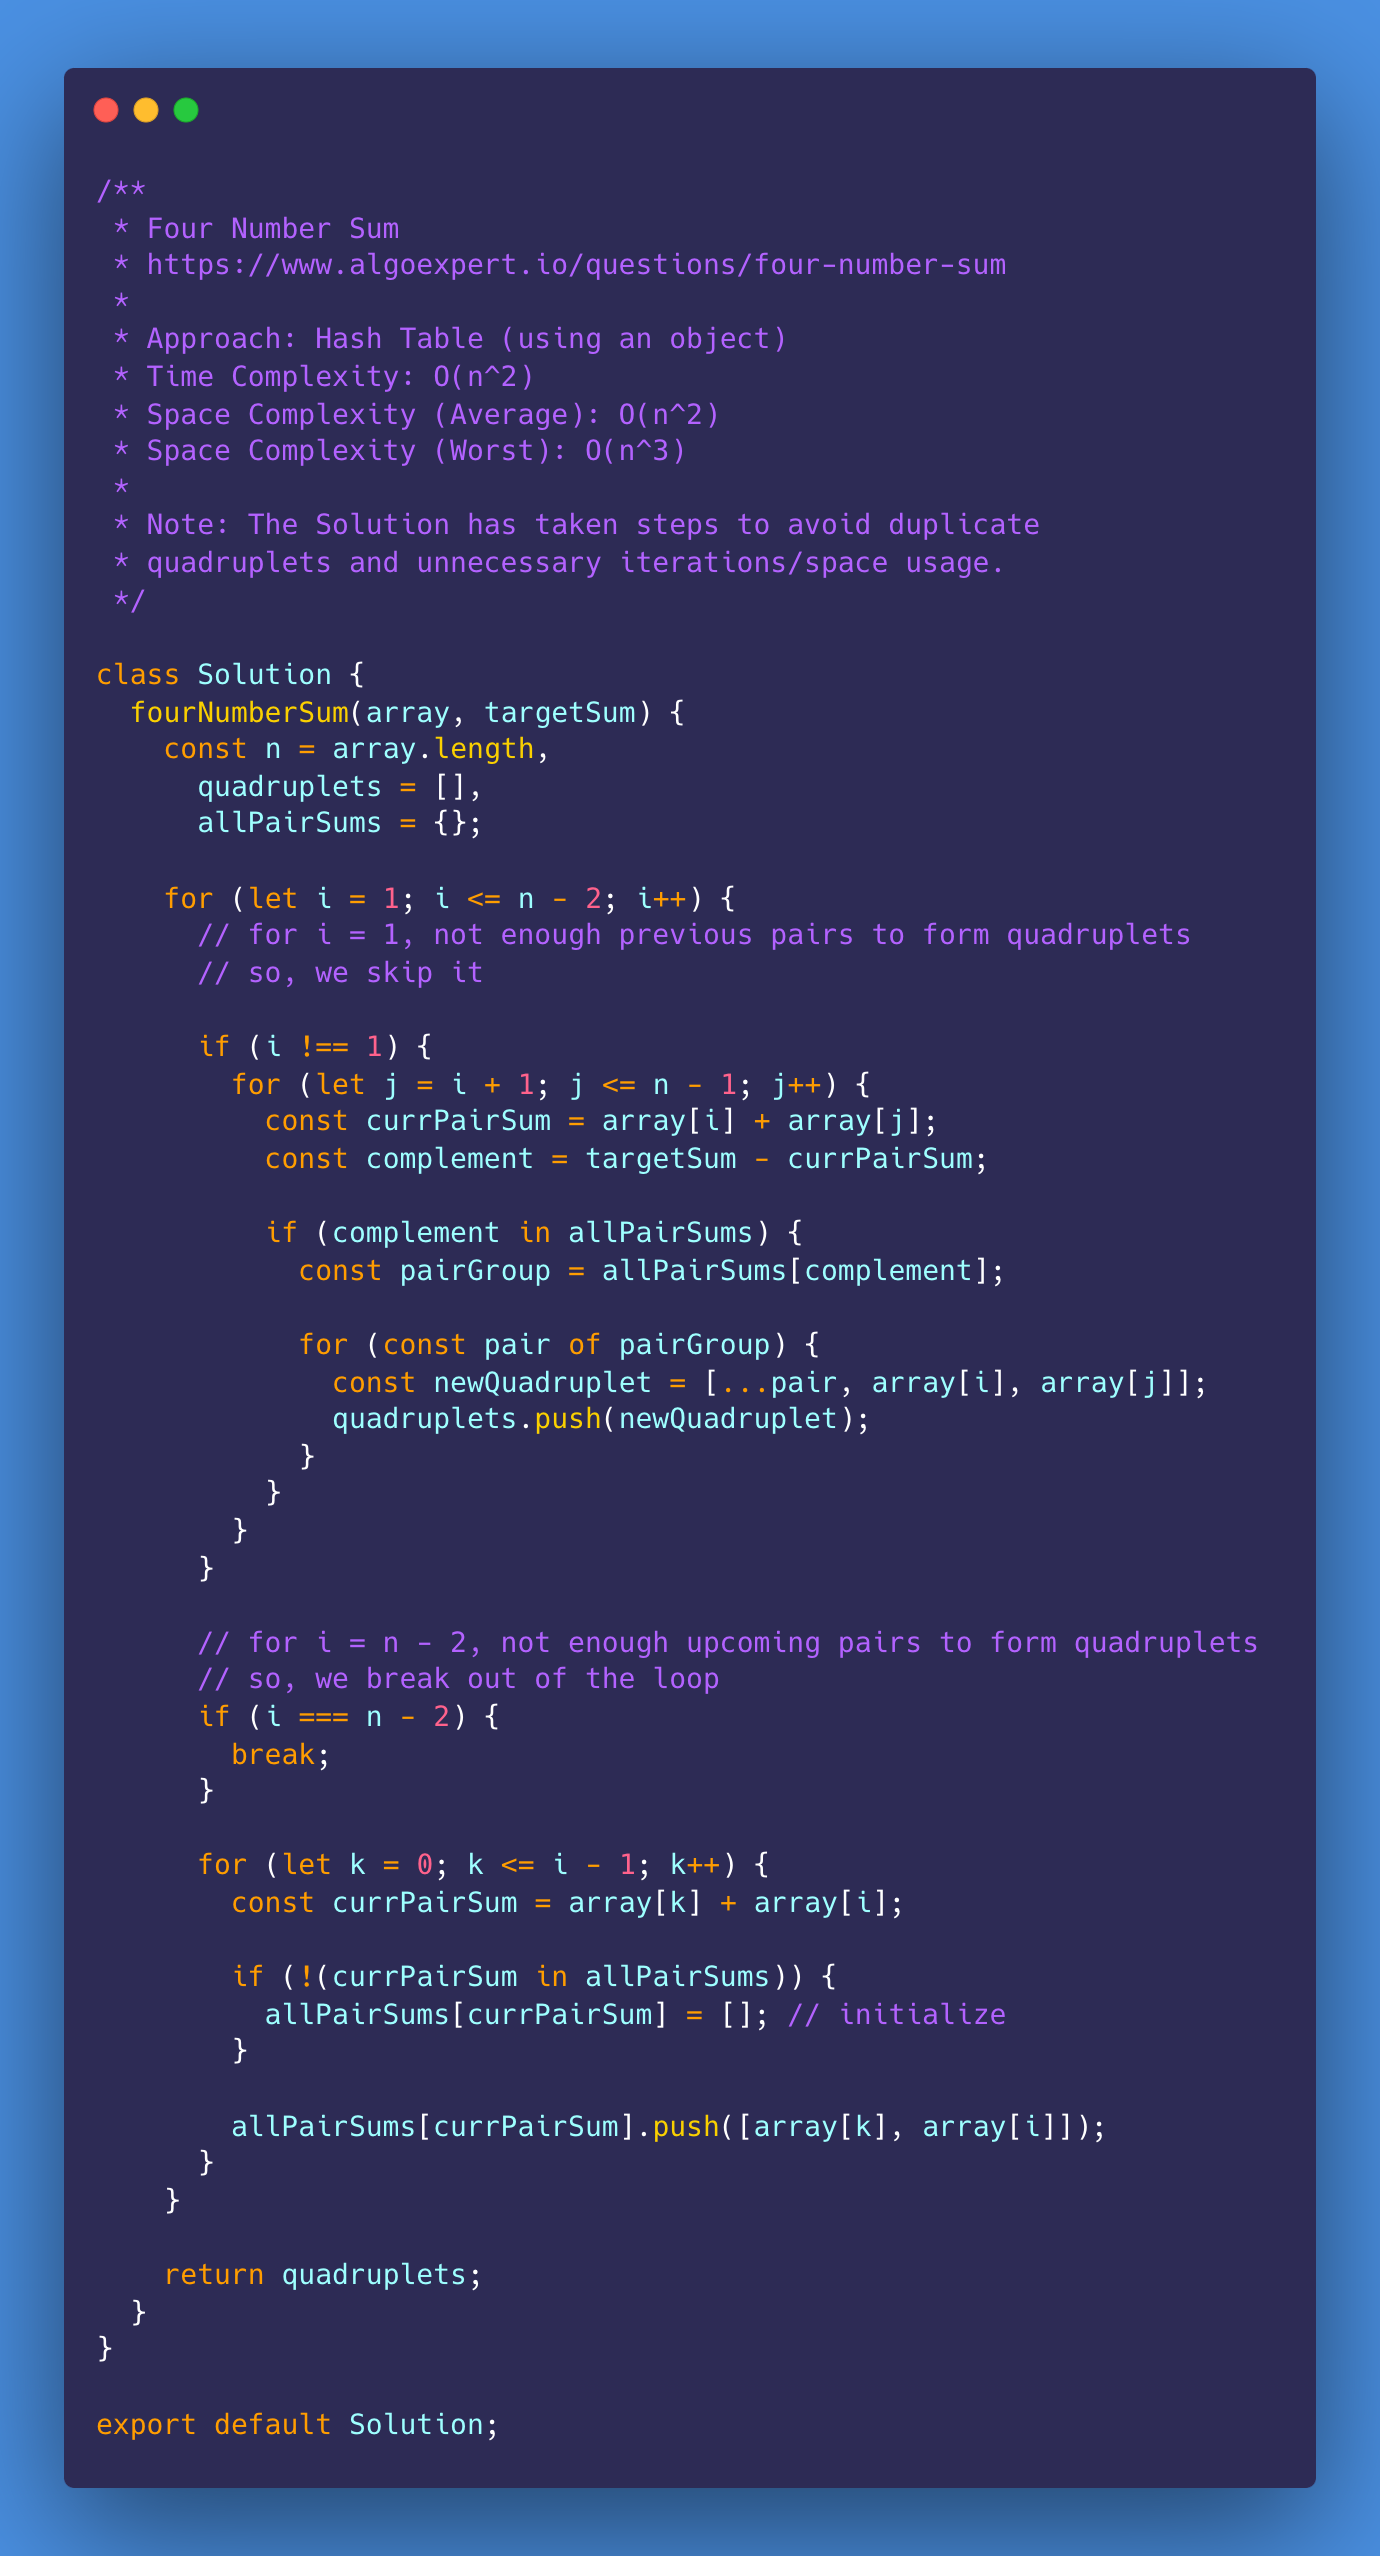
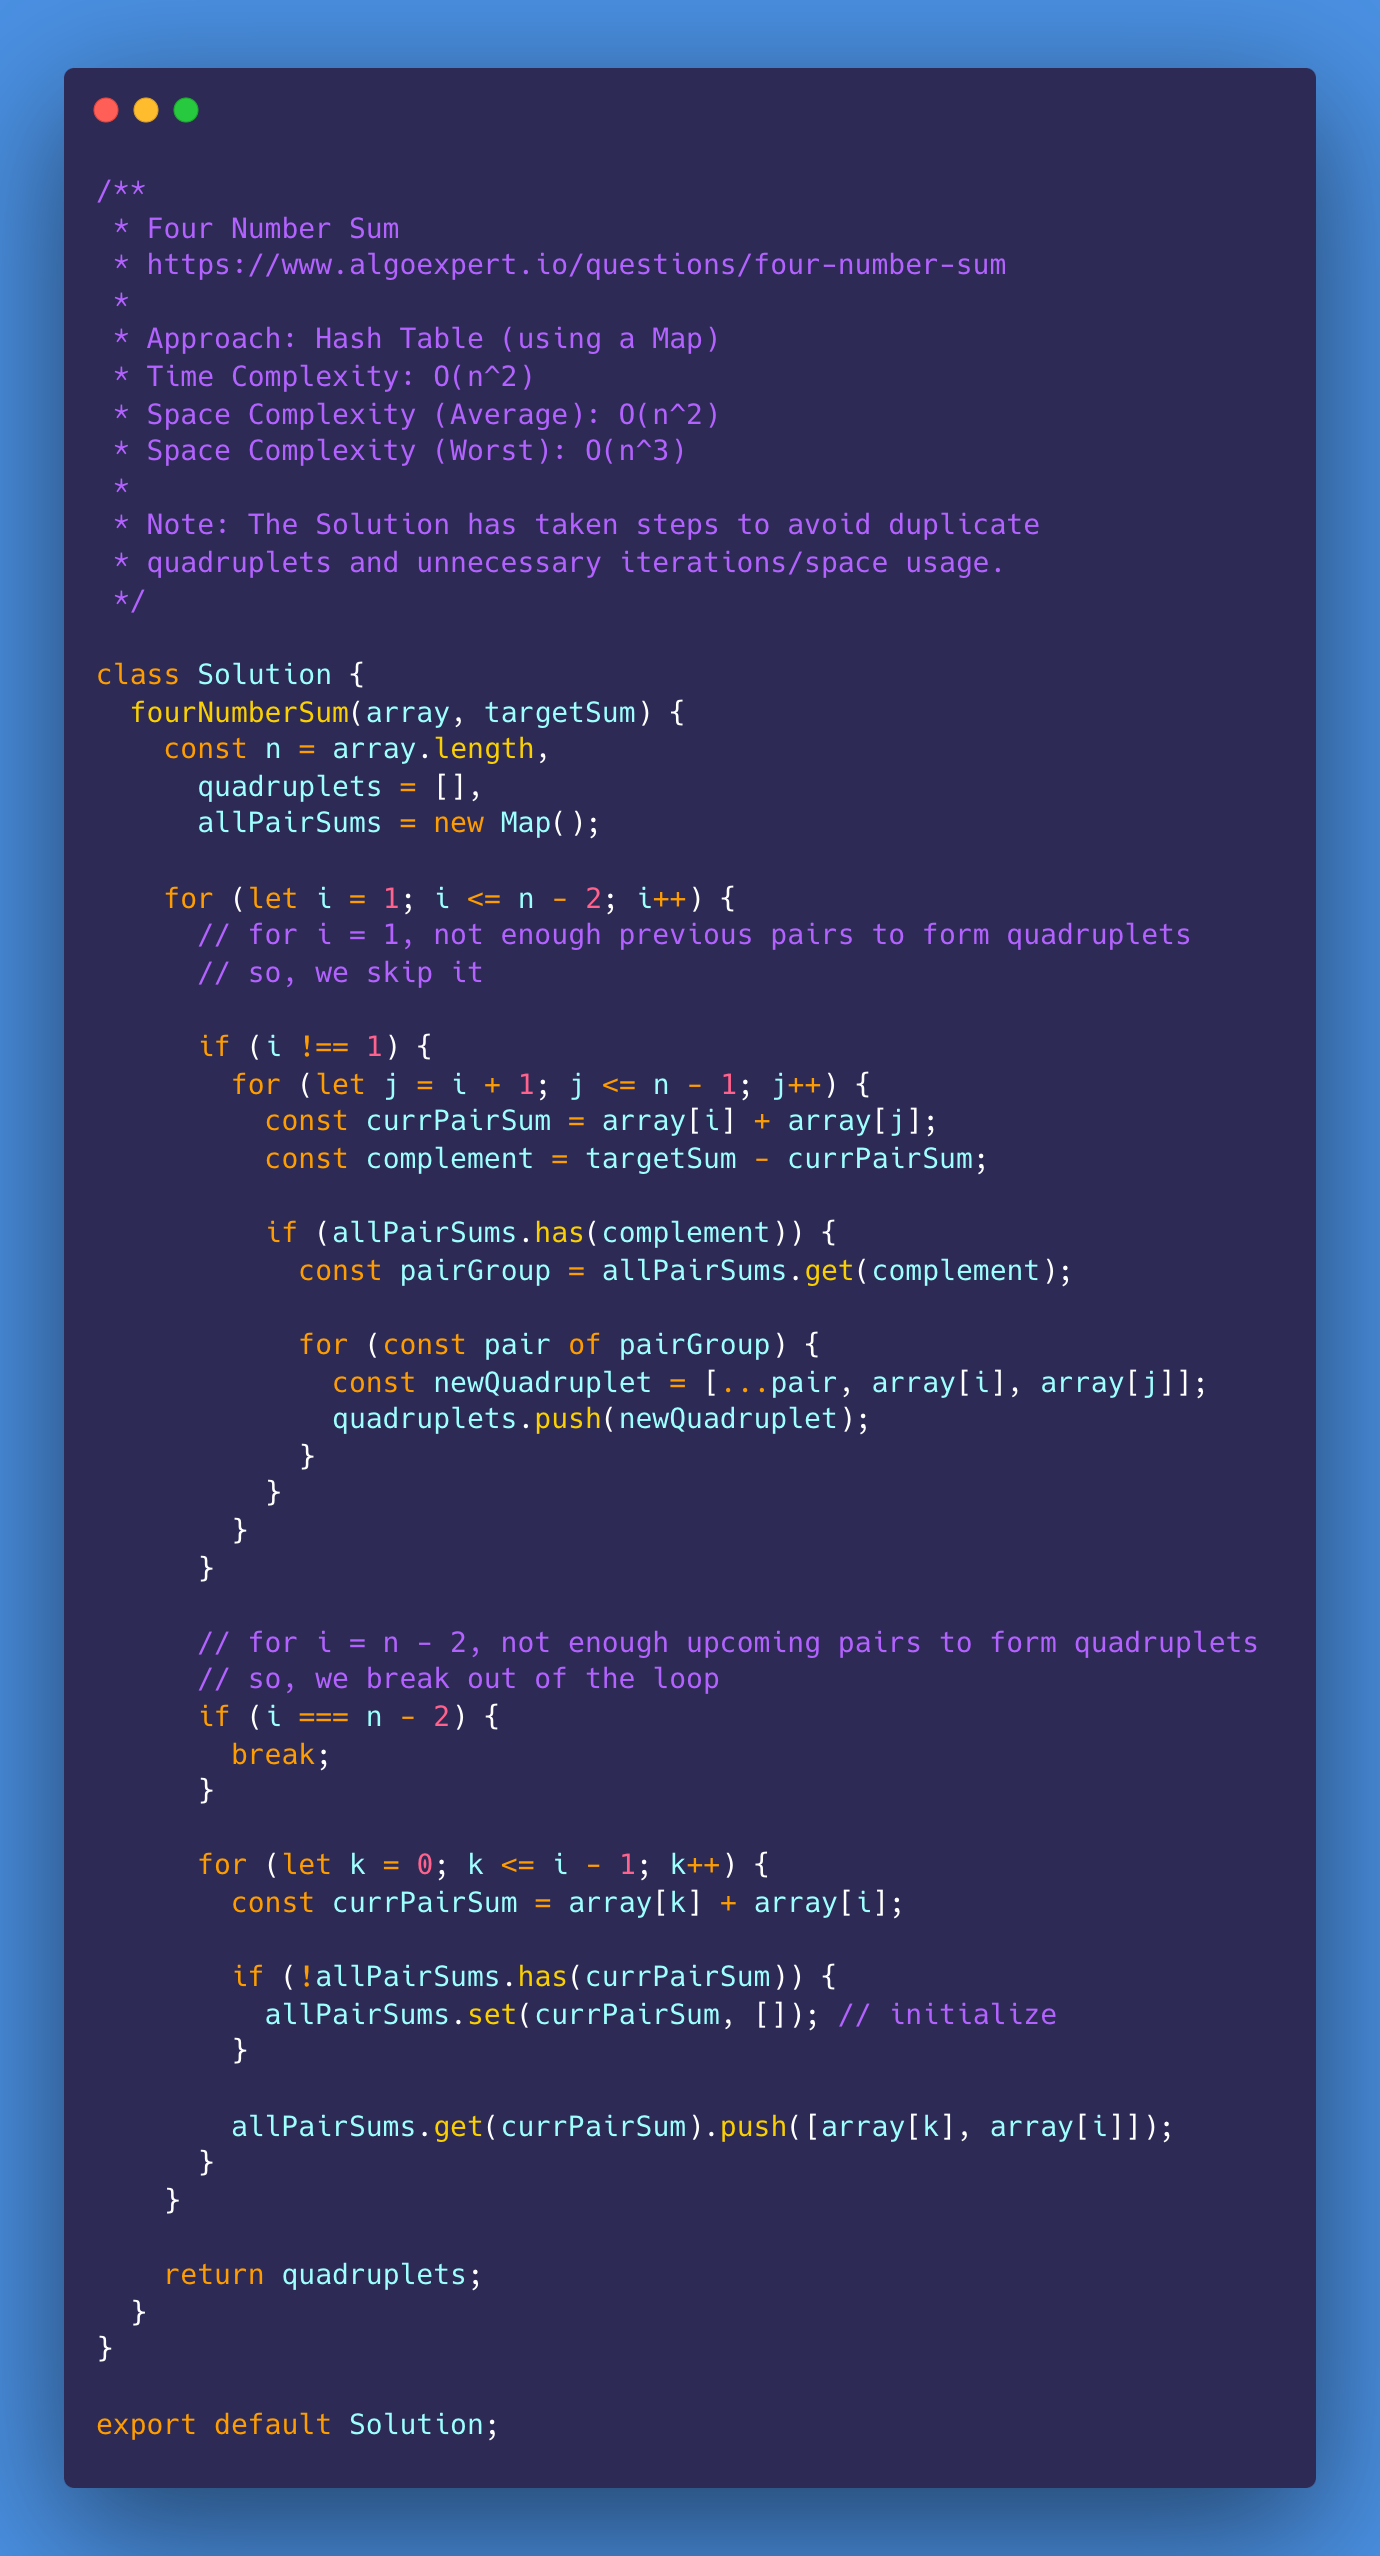
Four Number Sum updates

diff --git a/002-algoexpert/021-four-number-sum/001-solution/Solution.js b/002-algoexpert/021-four-number-sum/001-solution/Solution.js
@@ -2,7 +2,7 @@
  * Four Number Sum
  * https://www.algoexpert.io/questions/four-number-sum
  * 
- * Approach: Hash Table (using an object)
+ * Approach: Hash Table (using a Map)
  * Time Complexity: O(n^2)
  * Space Complexity (Average): O(n^2)
  * Space Complexity (Worst): O(n^3)
@@ -15,19 +15,19 @@ class Solution {
   fourNumberSum(array, targetSum) {
     const n = array.length,
       quadruplets = [],
-      allPairSums = {};
+      allPairSums = new Map();
 
     for (let i = 1; i <= n - 2; i++) {
       // for i = 1, not enough previous pairs to form quadruplets
       // so, we skip it
 
-      if (i !== 1) { 
+      if (i !== 1) {
         for (let j = i + 1; j <= n - 1; j++) {
           const currPairSum = array[i] + array[j];
           const complement = targetSum - currPairSum;
 
-          if (complement in allPairSums) {
-            const pairGroup = allPairSums[complement];
+          if (allPairSums.has(complement)) {
+            const pairGroup = allPairSums.get(complement);
 
             for (const pair of pairGroup) {
               const newQuadruplet = [...pair, array[i], array[j]];
@@ -46,11 +46,11 @@ class Solution {
       for (let k = 0; k <= i - 1; k++) {
         const currPairSum = array[k] + array[i];
 
-        if (!(currPairSum in allPairSums)) {
-          allPairSums[currPairSum] = []; // initialize
+        if (!allPairSums.has(currPairSum)) {
+          allPairSums.set(currPairSum, []); // initialize
         }
 
-        allPairSums[currPairSum].push([array[k], array[i]]);
+        allPairSums.get(currPairSum).push([array[k], array[i]]);
       }
     }
 

diff --git a/002-algoexpert/021-four-number-sum/README.md b/002-algoexpert/021-four-number-sum/README.md
@@ -4,7 +4,6 @@
 
 - [Problem](#problem)
 - [Solution](#solution)
-  - [Hash Table (using an object)](#hash-table-using-an-object)
   - [Hash Table (using a Map)](#hash-table-using-a-map)
 
 ## Problem
@@ -13,10 +12,6 @@
 
 ## Solution
 
-### Hash Table (using an object)
-
-![Four Number Sum](./001-solution.png)
-
 ### Hash Table (using a Map)
 
-![Four Number Sum](./002-solution.png)
+![Four Number Sum](./001-solution.png)
